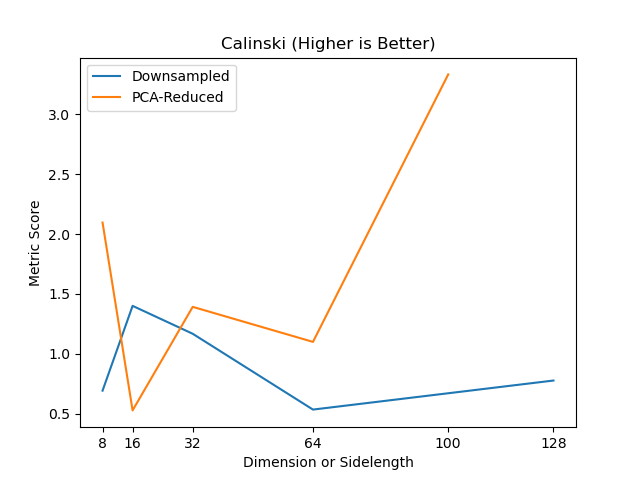
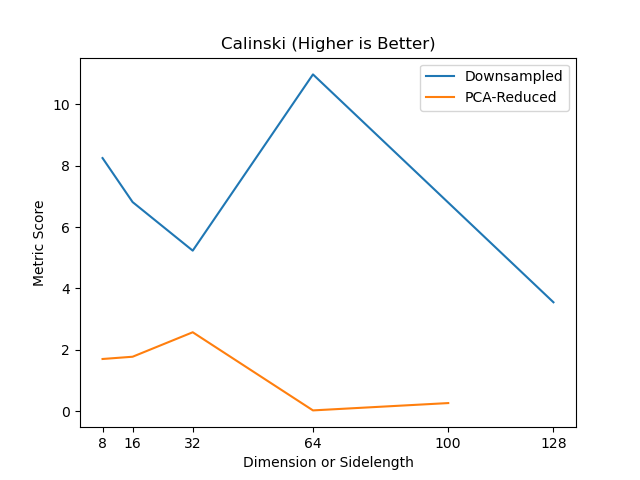
Exploration

diff --git a/preprocess.py b/preprocess.py
@@ -6,11 +6,13 @@ import numpy as np
 
 from sklearn.decomposition import PCA
 from sklearn.preprocessing import normalize
+from sklearn.mixture import GaussianMixture
 
 
 def resample_images(new_size, input_dir='tiff_images', output_dir='resampled_tiffs'):
-    # Both input_dir and output_dir must exist before calling this function
     # new_size (int): new image sidelength
+    if not os.path.isdir(output_dir):
+        os.mkdir(output_dir)
 
     new_dir = os.path.join(output_dir, str(new_size))
     if os.path.isdir(new_dir):
@@ -25,8 +27,9 @@ def resample_images(new_size, input_dir='tiff_images', output_dir='resampled_tif
 
 
 def pcareduce_images(reduc_dim, input_dir='tiff_images', output_dir='dimension_reduced'):
-    # Both input_dir and output_dir must exist before calling this function
     # reduc_dim (int): new reduced dimensionality
+    if not os.path.isdir(output_dir):
+        os.mkdir(output_dir)
 
     new_dir = os.path.join(output_dir, str(reduc_dim))
     if os.path.isdir(new_dir):
@@ -40,9 +43,47 @@ def pcareduce_images(reduc_dim, input_dir='tiff_images', output_dir='dimension_r
     np.save(os.path.join(new_dir, 'all_data.npy'), tiff_reduc)
 
 
+def gaussmix_images(n_components, input_dir='tiff_images', output_dir='gauss_mixtures'):
+    # n_components (int): mixture components
+    if not os.path.isdir(output_dir):
+        os.mkdir(output_dir)
+
+    new_dir = os.path.join(output_dir, str(n_components))
+    if os.path.isdir(new_dir):
+        shutil.rmtree(new_dir)
+    os.mkdir(new_dir)
+
+    dir1 = os.path.join(new_dir, 'comp_vector')
+    dir2 = os.path.join(new_dir, 'comp_images')
+    os.mkdir(dir1)
+    os.mkdir(dir2)
+
+    files = os.listdir(input_dir)
+
+    n = len(files)
+    arr1 = np.zeros((n, n_components))
+    gauss_obj = GaussianMixture(n_components=n_components, n_init=3)
+
+    for i in range(n):
+        tiff_file = files[i]
+        tiff_im = tifffile.imread(os.path.join(input_dir, tiff_file)).reshape(-1,1)
+        gauss_obj.fit(tiff_im)
+
+        mu = gauss_obj.means_
+        arr1[i,:] = sorted(mu.flatten())
+
+        tiff_cls = mu[gauss_obj.predict(tiff_im)].reshape(512, 512)
+        tifffile.imwrite(os.path.join(dir2, tiff_file), tiff_cls)
+
+    np.save(os.path.join(dir1, 'all_data.npy'), arr1)
+
+
 def produce_all_datasets():
     for sz in [8, 16, 32, 64, 128]:
         resample_images(sz)
 
     for dim in [8, 16, 32, 64, 100]:
         pcareduce_images(dim)
+
+    #for n_comp in range(5, 11):
+    #    gaussmix_images(n_comp)

diff --git a/utils.py b/utils.py
@@ -81,7 +81,7 @@ def TSNE_wrapper(data, perplexity, early_exaggeration, learning_rate, n_iter):
     # Acceptable value ranges:
     # perplexity \in [5, 50], early_exaggeration \in [1, 100]
     # learning_rate \in [10, 1000], n_iter \in [250, 2500]
-    return tsne_obj.fit_transform(normalize(data.reshape(data.shape[0], -1)))
+    return tsne_obj.fit_transform(data.reshape(data.shape[0], -1))
 
 
 def cluster_calcs(X_embed, y):
@@ -122,7 +122,7 @@ def default_cluster_stats(data_dir):
     X_embed = TSNE_wrapper(all_train[0], 30, 12, 200, 1000)
     cluster_stats = cluster_calcs(X_embed, all_train[1])
 
-    return cluster_calcs
+    return cluster_stats
 
 def all_metric_evals():
     # We have ground truths but no predicted clusters
@@ -171,3 +171,39 @@ def all_metric_evals():
         plt.savefig(name+'.png')
         plt.cla()
         plt.clf()
+
+"""
+def gmix_eval():
+    metrics = {'Silhoutte': silhouette_score, 
+               'Calinski': calinski_harabasz_score, 
+               'Davies': davies_bouldin_score}
+    ncomps = range(5, 11)
+    n = len(ncomps)
+
+    for name, func in metrics.items():
+        ord_mu = [None]*n
+        disc_img = [None]*n
+        for i in range(n):
+            main_dir = os.path.join('gauss_mixtures', str(ncomps[i]))
+            data_dir1 = os.path.join(main_dir, 'comp_vector')
+            data = DataPrep(data_dir1).get_test()['train']
+            X_embed = TSNE_wrapper(data[0], 30, 12, 200, 1000)
+            ord_mu[i] = func(X_embed, data[1])
+
+            data_dir2 = os.path.join(main_dir, 'comp_images')
+            data = DataPrep(data_dir2).get_test()['train']
+            X_embed = TSNE_wrapper(data[0], 30, 12, 200, 1000)
+            disc_img[i] = func(X_embed, data[1])
+
+        subtitle = ' (Higher is Better)'
+        if name == 'Davies':
+            subtitle = ' (Lower is Better)'
+
+        plt.plot(ncomps, ord_mu, label='Ordered ' + r'$\mu$')
+        plt.plot(ncomps, disc_img, label='Discrete Image')
+        plt.xlabel('Mixture Components')
+        plt.ylabel('Metric Score')
+        plt.title('Gauss Mix '+name+subtitle)
+        plt.legend()
+        plt.show()
+"""
